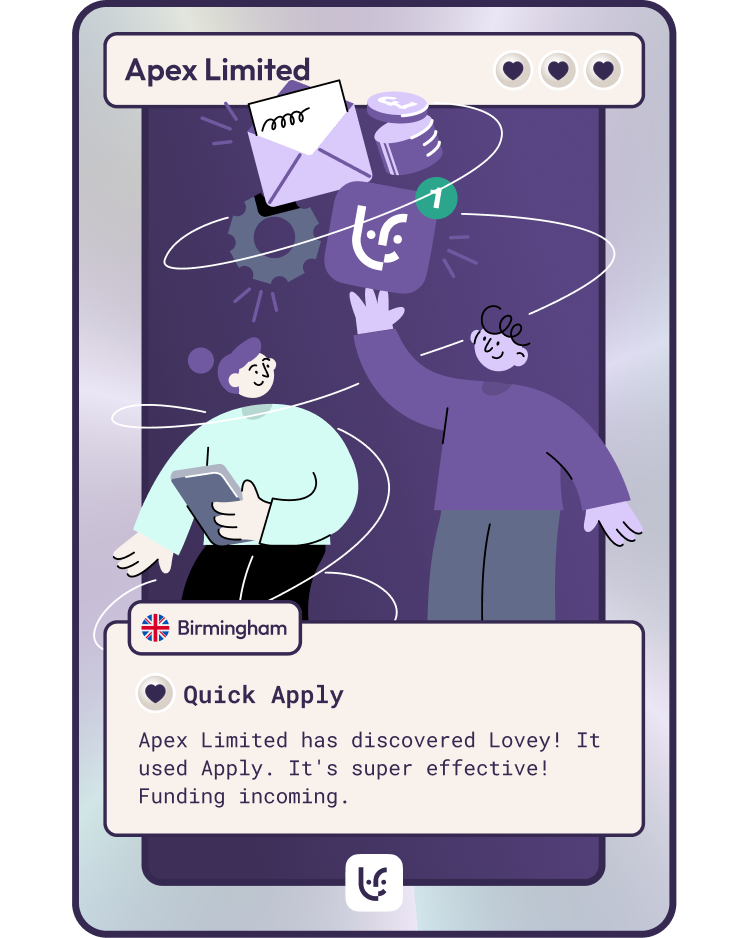
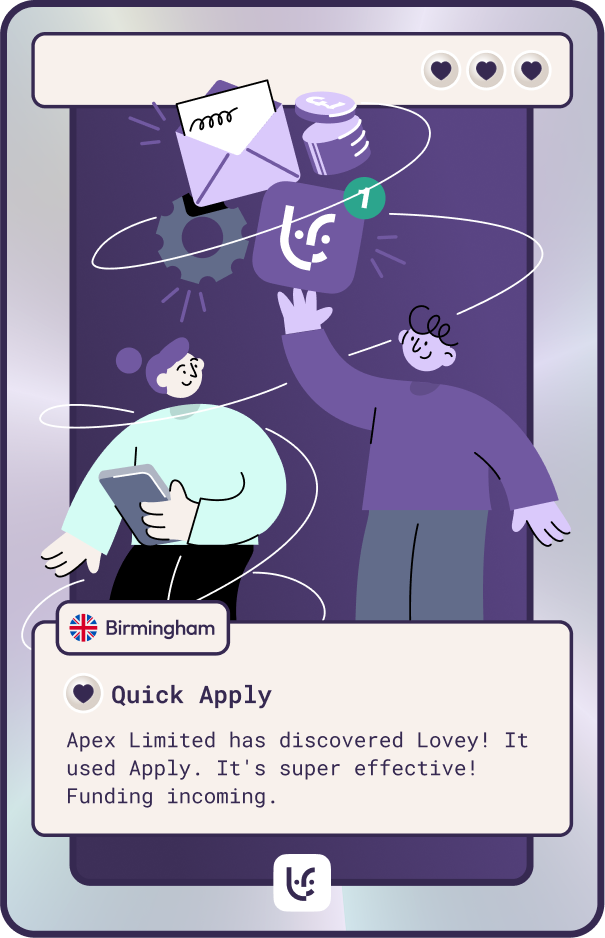
Submitted card: business-name overlay, expand-to-showcase, download
- Overlay the business name on the card's (now blank) header bar, sized
  per view and centered in the beige bar; re-align foil mask to the
  605x938 card.
- Click the card to open an animated big "showcase" view (backdrop +
  spring zoom, Escape/backdrop to close) with the full holo/tilt.
- "Download card" button composites the illustration + name onto a canvas
  and downloads a PNG.
- Hero text spans half the band; wrapper reserves height so the
  overflowing card isn't clipped.

diff --git a/src/pages/loan-application.tsx b/src/pages/loan-application.tsx
@@ -1,6 +1,6 @@
 import { ChangeEvent, Fragment, ReactNode, useEffect, useRef, useState } from "react";
 import { DotLottieReact } from "@lottiefiles/dotlottie-react";
-import { AlertCircle, AnnotationQuestion, ArrowLeft, ArrowRight, AtSign, BookOpen01, Building06, Check, CheckCircle, CheckSquareBroken, ChevronSelectorVertical, Dice1, Dice2, Dice3, Dice4, Disc01, FileCheck02, FileHeart02, Flag05, HelpCircle, Hourglass01, InfoCircle, Loading01, Lock01, LogOut02, Mail01, Mail05, Menu02, MinusCircle, MoonStar, PiggyBank01, Placeholder, Plus, PlusCircle, SearchMd, Settings01, Share05, Sun, UploadCloud02, User01, Users01, XClose } from "@untitledui/icons";
+import { AlertCircle, AnnotationQuestion, ArrowLeft, ArrowRight, AtSign, BookOpen01, Building06, Check, CheckCircle, CheckSquareBroken, ChevronSelectorVertical, Dice1, Dice2, Dice3, Dice4, Disc01, Download01, FileCheck02, FileHeart02, Flag05, HelpCircle, Hourglass01, InfoCircle, Loading01, Lock01, LogOut02, Mail01, Mail05, Menu02, MinusCircle, MoonStar, PiggyBank01, Placeholder, Plus, PlusCircle, SearchMd, Settings01, Share05, Sun, UploadCloud02, User01, Users01, XClose } from "@untitledui/icons";
 import { AnimatePresence, motion, type Variants } from "motion/react";
 import Tilt from "react-parallax-tilt";
 import type { DateValue } from "react-aria-components";
@@ -629,6 +629,9 @@ const DashboardStep1 = ({ externalDashStep, firstName, lastName, email, onStepCh
     // Tilt-reactive drop shadow for the submitted card (drop-shadow follows the PNG's alpha, unlike box-shadow).
     const cardShadowRef = useRef<HTMLDivElement>(null);
     const cardShadowRefMobile = useRef<HTMLDivElement>(null);
+    const cardShadowRefBig = useRef<HTMLDivElement>(null);
+    // Click-to-expand "showcase" view for the submitted card.
+    const [cardExpanded, setCardExpanded] = useState(false);
     const applyCardShadow = (el: HTMLDivElement | null, xPct: number, yPct: number) => {
         if (!el) return;
         const sx = -(yPct / 100) * 24;
@@ -645,6 +648,52 @@ const DashboardStep1 = ({ externalDashStep, firstName, lastName, email, onStepCh
         el.style.setProperty("--pointer-from-center", String(fromCenter));
         el.style.setProperty("--card-opacity", String(Math.min(1, 0.45 + fromCenter * 0.55)));
     };
+
+    // Composite the card (illustration + overlaid business name) onto a canvas and download it as a PNG.
+    const downloadCard = async () => {
+        const canvas = document.createElement("canvas");
+        canvas.width = 605;
+        canvas.height = 938;
+        const ctx = canvas.getContext("2d");
+        if (!ctx) return;
+        const img = new Image();
+        img.src = "/Card.png";
+        try {
+            await img.decode();
+        } catch {
+            return;
+        }
+        ctx.drawImage(img, 0, 0, canvas.width, canvas.height);
+        try {
+            await document.fonts.load("700 29px Outfit");
+        } catch {
+            /* fall back to system font */
+        }
+        ctx.font = "700 29px Outfit, system-ui, sans-serif";
+        ctx.fillStyle = "#241c33";
+        ctx.textBaseline = "middle";
+        ctx.textAlign = "left";
+        ctx.fillText("Big Bidness Ltd.", 0.09 * canvas.width, 0.074 * canvas.height);
+        canvas.toBlob((blob) => {
+            if (!blob) return;
+            const url = URL.createObjectURL(blob);
+            const a = document.createElement("a");
+            a.href = url;
+            a.download = "lovey-card.png";
+            document.body.appendChild(a);
+            a.click();
+            a.remove();
+            URL.revokeObjectURL(url);
+        }, "image/png");
+    };
+
+    // Close the expanded card on Escape.
+    useEffect(() => {
+        if (!cardExpanded) return;
+        const onKey = (e: KeyboardEvent) => { if (e.key === "Escape") setCardExpanded(false); };
+        document.addEventListener("keydown", onKey);
+        return () => document.removeEventListener("keydown", onKey);
+    }, [cardExpanded]);
 
     const handleSubmitApplication = () => {
         if (stepAnimatingRef.current) return;
@@ -1380,14 +1429,17 @@ const DashboardStep1 = ({ externalDashStep, firstName, lastName, email, onStepCh
                     {displayedDashStep === 6 ? (
                     /* ─── Submitted view (slides up over the whole stack) ─── */
                     <div className="flex flex-col gap-4 md:gap-6 p-3 md:p-8">
-                        {/* Hero — illustration card is larger than the brand-coloured background and overflows it */}
-                        <div className="relative">
-                            <div className="rounded-xl border border-brand bg-brand-200 md:my-[58px]">
+                        {/* Hero — illustration card is larger than the brand-coloured background and overflows it.
+                            The wrapper reserves enough height (>= card height) so the overflowing card isn't clipped. */}
+                        <div className="relative md:flex md:flex-col md:justify-center md:min-h-[440px]">
+                            <div className="rounded-xl border border-brand bg-brand-200">
                                 <div className="px-6 py-6 md:px-10 md:py-8">
                                     {/* Illustration on mobile — sits inside the band */}
                                     <div className="md:hidden mb-6 flex justify-center">
                                         <div
                                             ref={cardShadowRefMobile}
+                                            onClick={() => setCardExpanded(true)}
+                                            className="cursor-pointer"
                                             style={{ filter: "drop-shadow(0px 14px 24px rgba(54, 41, 81, 0.3))", transition: "filter 900ms cubic-bezier(.03,.98,.52,.99)" }}
                                         >
                                             <Tilt
@@ -1402,11 +1454,12 @@ const DashboardStep1 = ({ externalDashStep, firstName, lastName, email, onStepCh
                                                     <div className="holo-card__shine" aria-hidden />
                                                     <div className="holo-card__glare" aria-hidden />
                                                     <div className="holo-card__spotlight" aria-hidden />
+                                                    <div className="holo-card__name" style={{ fontSize: "11px" }}>Big Bidness Ltd.</div>
                                                 </div>
                                             </Tilt>
                                         </div>
                                     </div>
-                                    <div className="flex flex-col gap-2 text-brand-primary md:w-[274px]">
+                                    <div className="flex flex-col gap-2 text-brand-primary md:w-1/2">
                                         <h2 className="text-display-sm font-medium leading-[1.2]">Big Bidess LTD's application for £48,000 is now submitted.</h2>
                                         <p className="text-md">You're done. There's nothing more you need to do right now, our team will be in touch with next steps.</p>
                                     </div>
@@ -1415,7 +1468,8 @@ const DashboardStep1 = ({ externalDashStep, firstName, lastName, email, onStepCh
                             {/* Illustration on desktop — taller than the band, overflowing top & bottom, with a parallax tilt + glare + tilt-reactive shadow */}
                             <div
                                 ref={cardShadowRef}
-                                className="hidden md:block absolute top-1/2 -translate-y-1/2"
+                                onClick={() => setCardExpanded(true)}
+                                className="hidden md:block absolute top-1/2 -translate-y-1/2 cursor-pointer"
                                 style={{ left: "55%", filter: "drop-shadow(0px 18px 30px rgba(54, 41, 81, 0.33))", transition: "filter 900ms cubic-bezier(.03,.98,.52,.99)" }}
                             >
                                 <Tilt
@@ -1430,6 +1484,7 @@ const DashboardStep1 = ({ externalDashStep, firstName, lastName, email, onStepCh
                                         <div className="holo-card__shine" aria-hidden />
                                         <div className="holo-card__glare" aria-hidden />
                                         <div className="holo-card__spotlight" aria-hidden />
+                                        <div className="holo-card__name" style={{ fontSize: "13px" }}>Big Bidness Ltd.</div>
                                     </div>
                                 </Tilt>
                             </div>
@@ -2706,6 +2761,53 @@ const DashboardStep1 = ({ externalDashStep, firstName, lastName, email, onStepCh
                 </div>
             </div>
             <p className="text-xs text-tertiary text-center py-6 px-4">We may share the information you provide with our lending partners in line with our <a href="https://www.lovey.com/privacy-policy" target="_blank" rel="noopener noreferrer" className="underline">Privacy Policy</a>.</p>
+
+            {/* Expanded "showcase" card — zooms in big over a backdrop, keeps the holo + tilt */}
+            <AnimatePresence>
+                {cardExpanded && (
+                    <motion.div
+                        className="fixed inset-0 z-[60] flex items-center justify-center p-6"
+                        initial={{ opacity: 0 }}
+                        animate={{ opacity: 1 }}
+                        exit={{ opacity: 0 }}
+                        transition={{ duration: 0.25 }}
+                        onClick={() => setCardExpanded(false)}
+                    >
+                        <div className="absolute inset-0 bg-black/70 backdrop-blur-sm" />
+                        <motion.div
+                            className="relative flex flex-col items-center gap-5"
+                            initial={{ scale: 0.5, opacity: 0, y: 24 }}
+                            animate={{ scale: 1, opacity: 1, y: 0 }}
+                            exit={{ scale: 0.5, opacity: 0, y: 24 }}
+                            transition={{ type: "spring", duration: 0.5, bounce: 0.25 }}
+                            onClick={(e) => e.stopPropagation()}
+                        >
+                            <div
+                                ref={cardShadowRefBig}
+                                style={{ filter: "drop-shadow(0px 30px 60px rgba(0, 0, 0, 0.5))", transition: "filter 900ms cubic-bezier(.03,.98,.52,.99)" }}
+                            >
+                                <Tilt
+                                    tiltMaxAngleX={16}
+                                    tiltMaxAngleY={16}
+                                    transitionSpeed={900}
+                                    onMove={({ tiltAngleXPercentage, tiltAngleYPercentage }) => applyCardShadow(cardShadowRefBig.current, tiltAngleXPercentage, tiltAngleYPercentage)}
+                                >
+                                    <div className="holo-card">
+                                        <img src="/Card.png" alt="" className="h-[80vh] max-h-[760px] w-auto block" />
+                                        <div className="holo-card__shine" aria-hidden />
+                                        <div className="holo-card__glare" aria-hidden />
+                                        <div className="holo-card__spotlight" aria-hidden />
+                                        <div className="holo-card__name" style={{ fontSize: "clamp(13px, 2.3vh, 23px)" }}>Big Bidness Ltd.</div>
+                                    </div>
+                                </Tilt>
+                            </div>
+                            <Button color="primary" size="lg" iconLeading={Download01} onClick={downloadCard}>
+                                Download card
+                            </Button>
+                        </motion.div>
+                    </motion.div>
+                )}
+            </AnimatePresence>
 
             {/* Video Modal */}
             {showVideoModal && (

diff --git a/src/styles/globals.css b/src/styles/globals.css
@@ -135,6 +135,22 @@ input[type="search"]::-webkit-search-cancel-button {
 .holo-card {
     position: relative;
 }
+/* Business name overlaid on the card's (now blank) header bar.
+   font-size is set per-view inline (it must scale with each card size). */
+.holo-card__name {
+    position: absolute;
+    top: 3.8%;
+    left: 9%;
+    height: 7.2%;
+    z-index: 5;
+    display: flex;
+    align-items: center;
+    font-weight: 700;
+    line-height: 1;
+    color: #241c33;
+    white-space: nowrap;
+    pointer-events: none;
+}
 .holo-card > img {
     display: block;
     position: relative;
